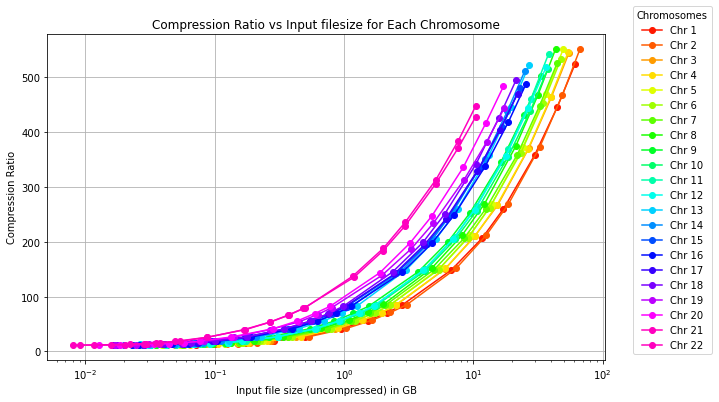
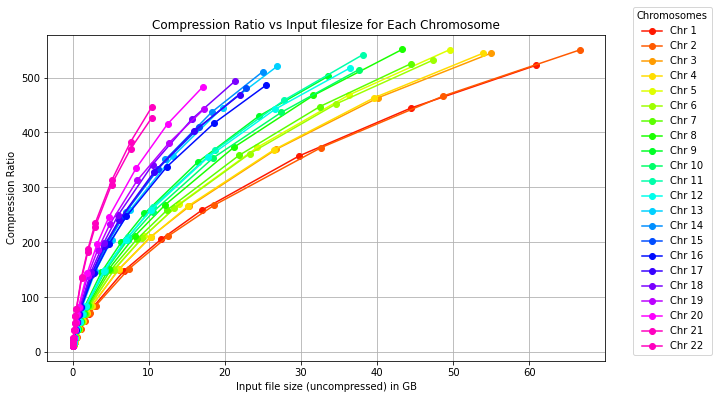
Update graphs

diff --git a/Codes/CompRatio_vs_SampleSize.py b/Codes/CompRatio_vs_SampleSize.py
@@ -53,7 +53,7 @@ for chromosome, group in compression_ratio_df.groupby('Chromosome'):
 # Add labels and title
 plt.xlabel('Input file size (uncompressed) in GB')
 plt.ylabel('Compression Ratio')
-plt.xscale("log")
+#plt.xscale("log")
 plt.title('Compression Ratio vs Input filesize for Each Chromosome')
 plt.legend(title='Chromosomes',bbox_to_anchor=(1.2, 1.1))
 plt.grid(True)
@@ -72,7 +72,7 @@ for chromosome, group in compression_ratio_df.groupby('Chromosome'):
 # Add labels and title
 plt.xlabel('Sample Size')
 plt.ylabel('Compression Ratio')
-plt.xscale("log")
+#plt.xscale("log")
 plt.title('Compression Ratio vs Sample Size for Each Chromosome')
 plt.legend(title='Chromosomes',bbox_to_anchor=(1.2, 1.1))
 plt.grid(True)
